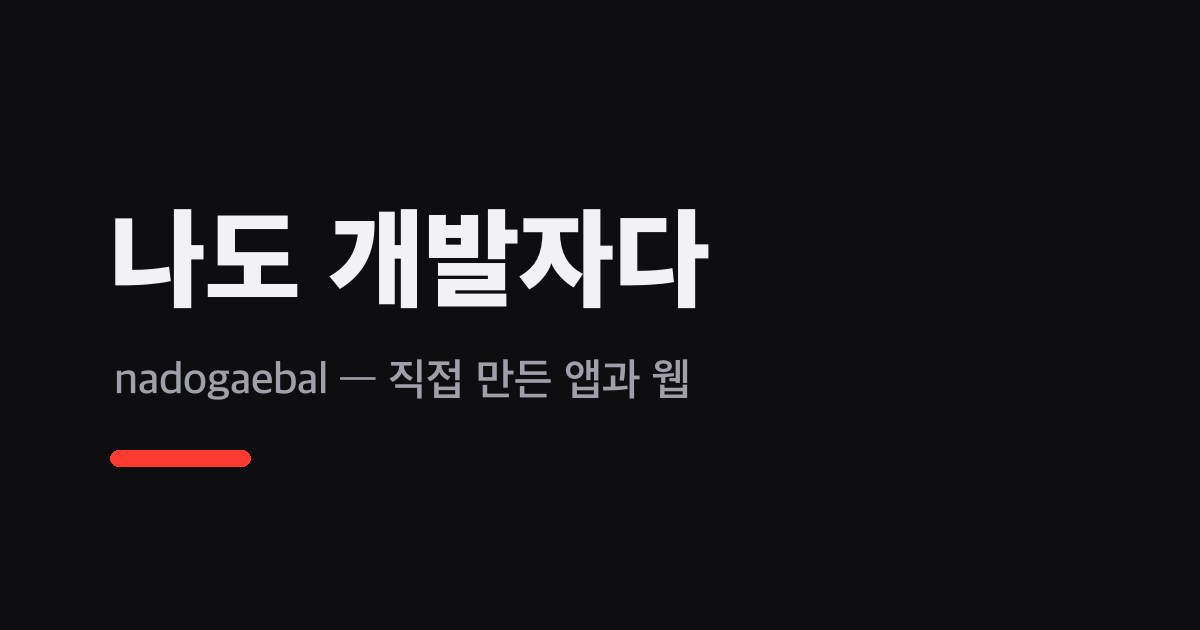
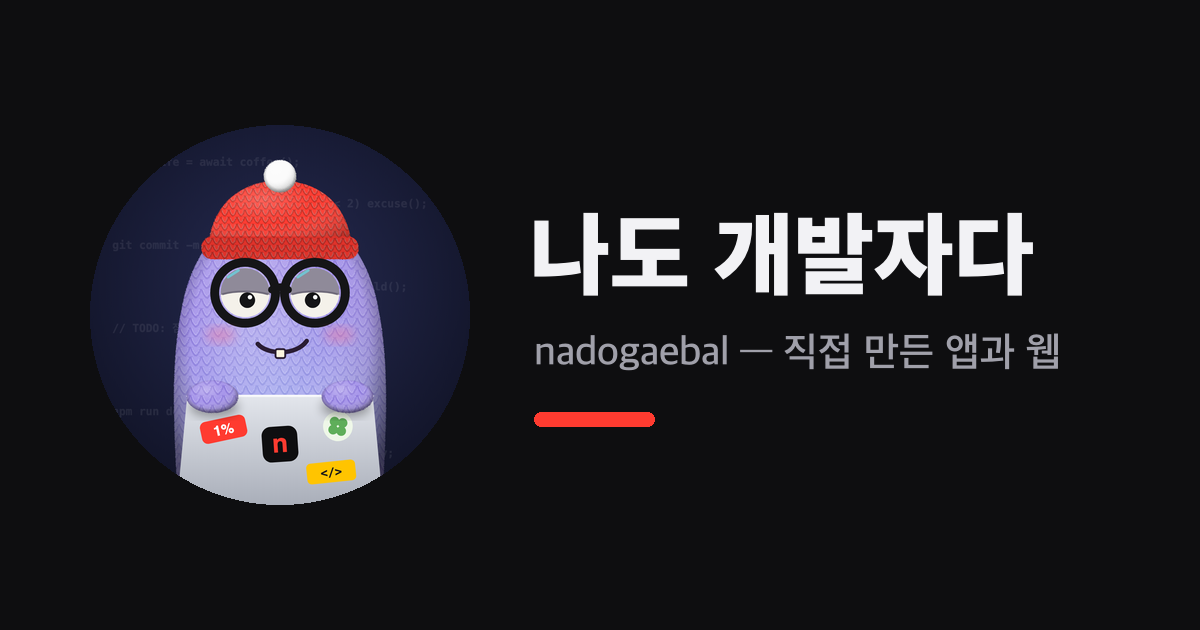
프로필 캐릭터 추가, 공유 미리보기 이미지 교체

Changed region(s): [[0.0617, 0.181, 0.8942, 0.8143]]

diff --git a/index.html b/index.html
@@ -8,16 +8,20 @@
 <meta property="og:type" content="website">
 <meta property="og:title" content="나도 개발자다 — nadogaebal">
 <meta property="og:description" content="직접 만든 앱과 웹 모음">
-<meta property="og:image" content="https://nadogaebal.com/assets/og.png">
+<meta property="og:image" content="https://nadogaebal.com/assets/og.png?v=2">
 <meta property="og:url" content="https://nadogaebal.com/">
 <meta name="twitter:card" content="summary_large_image">
 <link rel="icon" href="/favicon.svg" type="image/svg+xml">
+<link rel="apple-touch-icon" href="/assets/profile-512.png">
 <style>
   :root { --bg:#ffffff; --fg:#1b1b1f; --muted:#5f6068; --line:#e6e6ea; --accent:#ff3b30; }
   @media (prefers-color-scheme: dark) { :root { --bg:#0e0e10; --fg:#f2f2f5; --muted:#a0a0aa; --line:#26262b; } }
   body { margin:0; background:var(--bg); color:var(--fg); font:16px/1.7 -apple-system, BlinkMacSystemFont, "Apple SD Gothic Neo", "Noto Sans KR", sans-serif; }
   main { max-width:720px; margin:0 auto; padding:48px 16px 80px; }
-  h1 { font-size:26px; margin:0 0 24px; }
+  h1 { font-size:26px; margin:0; }
+  .profile { display:flex; align-items:center; gap:16px; margin:0 0 32px; }
+  .profile img { width:84px; height:84px; border-radius:50%; flex:0 0 auto; }
+  .profile p { margin:2px 0 0; color:var(--muted); font-size:15px; }
   .section { font-size:14px; color:var(--muted); font-weight:600; margin:36px 0 8px; }
   .section:first-of-type { margin-top:0; }
   .links a + a { margin-left:14px; }
@@ -32,7 +36,13 @@
 </head>
 <body>
 <main>
-  <h1>나도 개발자다</h1>
+  <header class="profile">
+    <img src="/assets/profile.png" alt="nadogaebal 프로필 캐릭터" width="84" height="84">
+    <div>
+      <h1>나도 개발자다</h1>
+      <p>nadogaebal · 직접 만든 앱과 웹</p>
+    </div>
+  </header>
   <h2 class="section">앱</h2>
   <div class="app">
     <img src="/assets/onepercent/icon.png" alt="" width="56" height="56">
